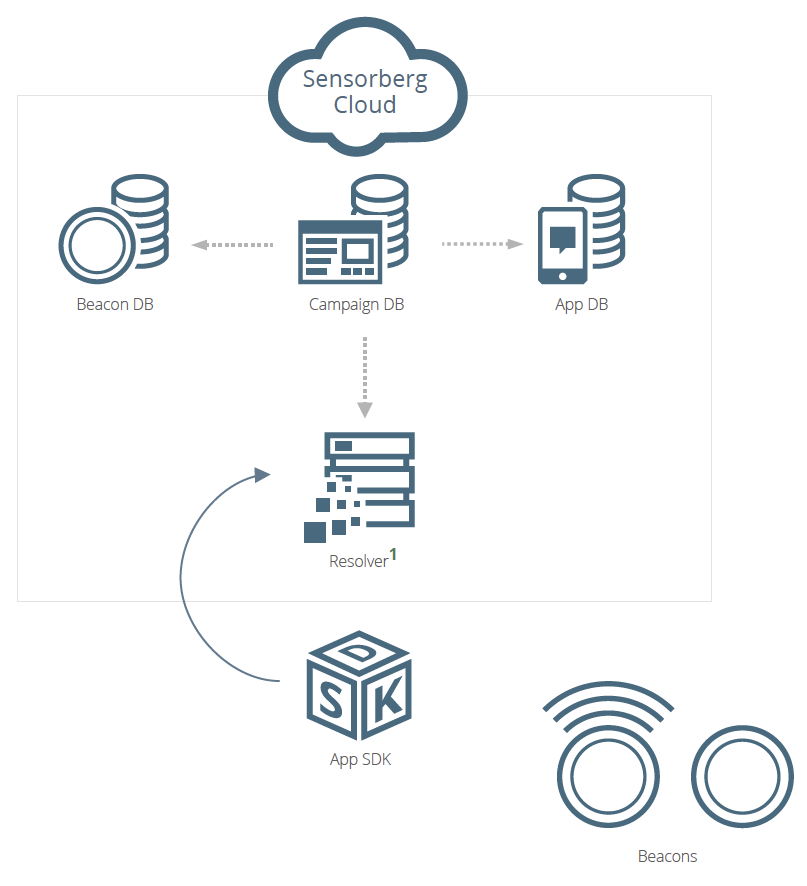
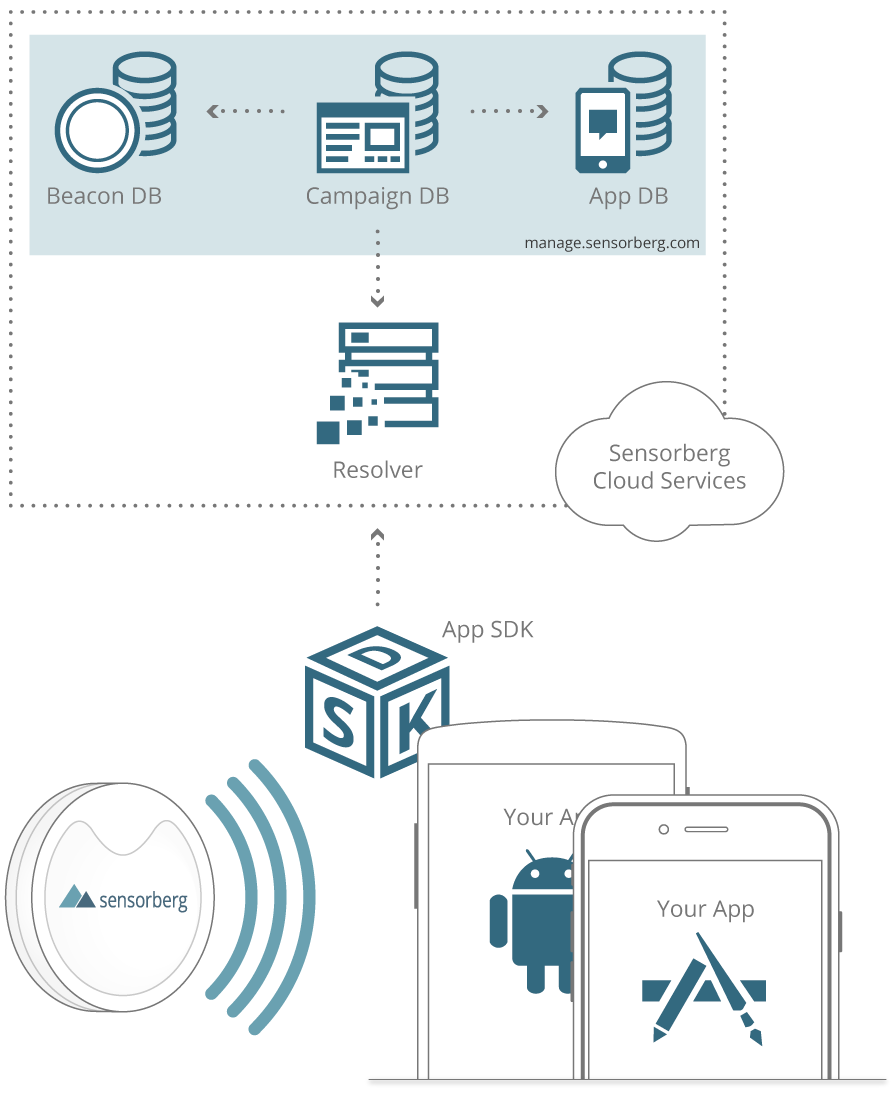
Image was changed
- the image for data transfer with resolver was changed

diff --git a/css/theme.css b/css/theme.css
@@ -313,6 +313,10 @@ form#mc-form-onsite{
     margin-top: 20px;
 }
 
+.info-graphic img {
+    padding: 20px;
+}
+
 .well>h1 {
     color: #373f49;
   }
